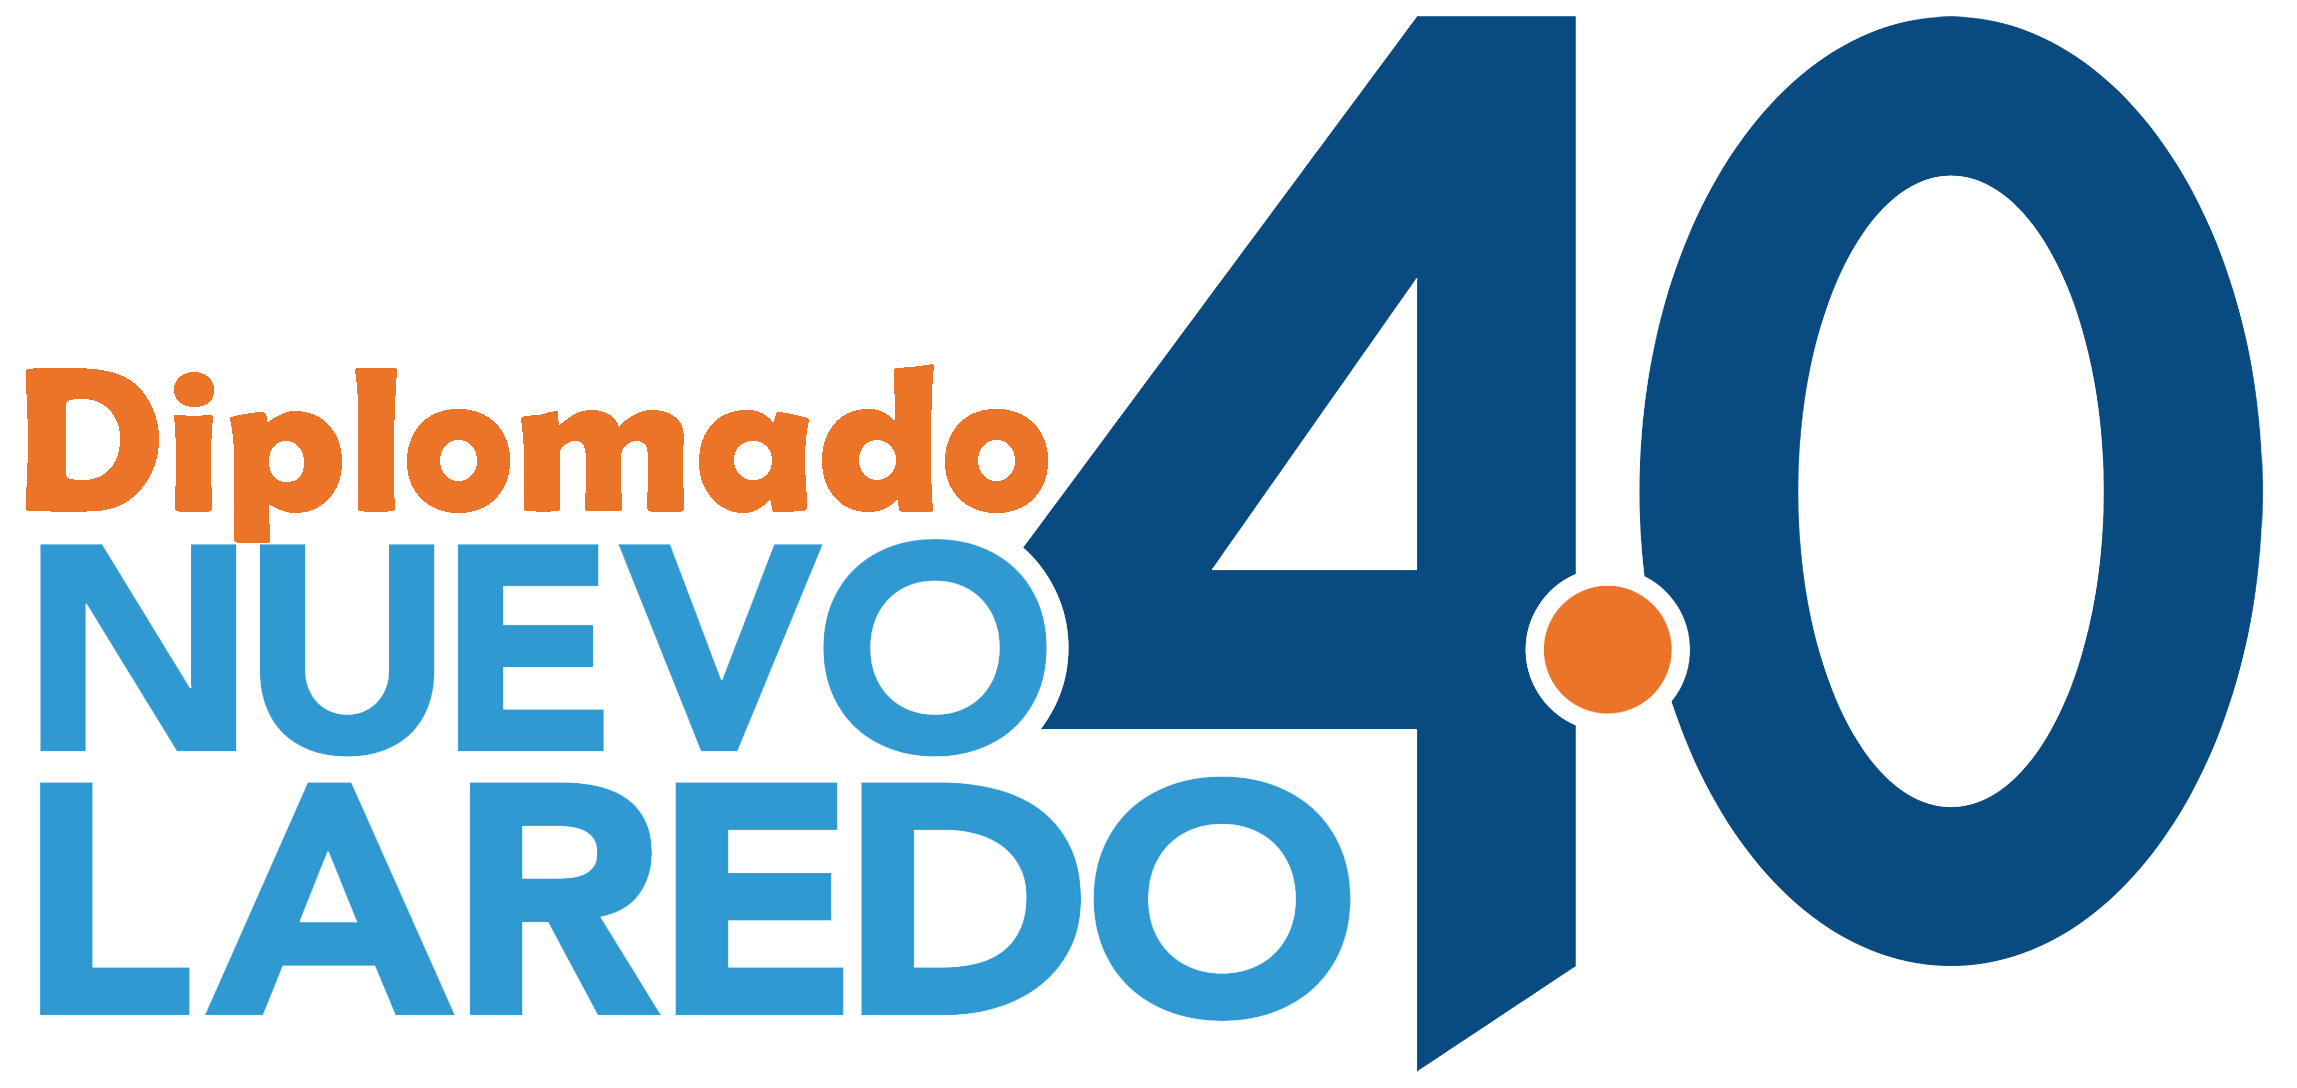
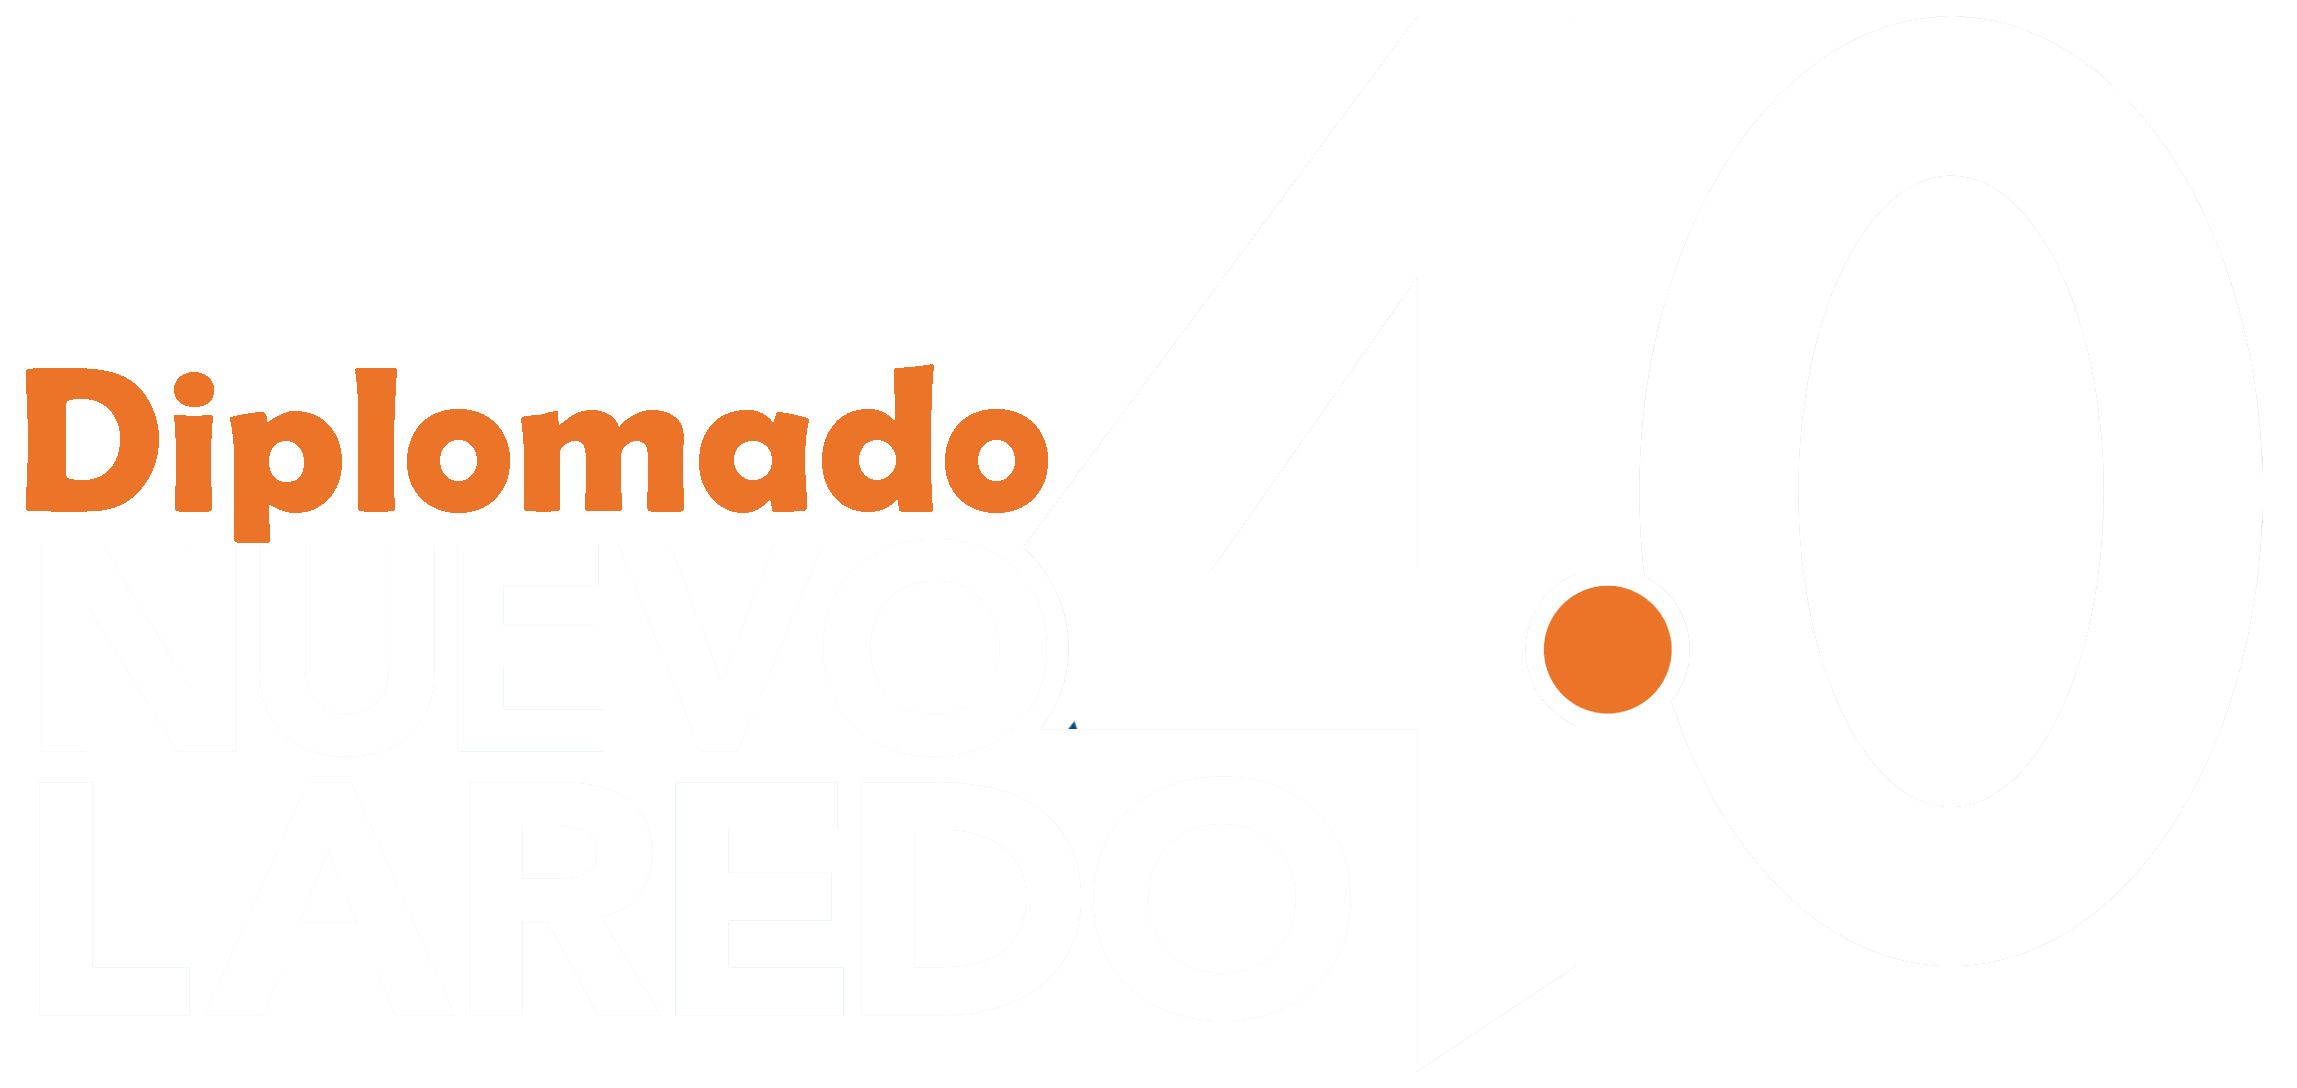
colores

diff --git a/participante_index.html b/participante_index.html
@@ -44,10 +44,10 @@
             <div class="row">
               <div class="col-lg-12">
                 <!--Menu-->
-                  <div class="container-fluid bg-info text-right" >
-                    <nav class="navbar navbar-expand-lg navbar-light bg-info container">
+                  <div class="container-fluid bg-primary text-right" >
+                    <nav class="navbar navbar-expand-lg navbar-light bg-primary container">
                       <a class="navbar-brand" href="#">
-                        <img src="img/Diplomado33 - copia.png" width="160" height="63" class="d-inline-block align-top" alt="">
+                        <img src="img/Diplomado3 - copia.png" width="160" height="63" class="d-inline-block align-top" alt="">
                       </a> 
                       <button class="navbar-toggler" type="button" data-toggle="collapse" data-target="#navbarSupportedContent" aria-controls="navbarSupportedContent" aria-expanded="false" aria-label="Toggle navigation">
                         <span class="navbar-toggler-icon">
@@ -95,13 +95,14 @@
                             </a>
                           </h5>
                         </div>
-                        <div id="collapseOne" class="collapse" role="tabpanel" aria-labelledby="headingOne" data-parent="#accordion">
-                          <div class="card-body bg-info">
-                            <h5>
+                        <div id="collapseOne" class="collapse" role="tabpanel" aria-labelledby="headingOne" data-parent="#accordion" >
+                          <div class="card-body bg-info" style="background:url(img/fondo2.jpg); background-size: cover; background-position: center;">
+                            <h5 style="color:white">
                               Objetivo del curso:
                             </h5>
-                            <p>
+                            <p style="color:white">
                                El módulo de iniciación a industria 4.0 tiene un enfoque de concepto, global y generalista, su objetivo es aportar una visión de referencia sobre las tecnologías y tendencias a nivel mundial que definen las fábricas de mañana, la industria 4.0 y el concepto de internet de las cosas (IoT, internet of things).
+
                             </p>
                             <a href="#">
                               <img src="img/ir.svg" width="30" >
@@ -119,7 +120,7 @@
                           </h5>
                         </div>
                         <div id="collapseTwo" class="collapse" role="tabpanel" aria-labelledby="headingTwo" data-parent="#accordion">
-                          <div class="card-body bg-info">
+                          <div class="card-body bg-info" style="background:url(img/fondo4.png); background-size: cover; background-position: center;">
                             <h5>
                               Objetivo del curso:
                             </h5>
@@ -142,29 +143,29 @@
                           </h5>
                         </div>
                         <div id="collapseThree" class="collapse" role="tabpanel" aria-labelledby="headingThree" data-parent="#accordion">
-                          <div class="card-body bg-info">
-                            <h2>
+                          <div class="card-body bg-info" style="background:url(img/fondo6.jpg); background-size: cover; background-position: center;">
+                            <h2 style="color: white">
                               ¿Qué es la ciberseguridad?
                             </h2>
-                            <ul>
+                            <ul style="color: white">
                               <li>Comunicacíon</li>
                               <li>Manejo</li>
                               <li>Almacenamiento</li>
                               <li>y uso de datos</li>
                             </ul>
-                            <h6>
+                            <h6 style="color: white">
                               De forma segura, confidencial y protegida.
                             </h6> 
-                            <h5>
+                            <h5 style="color: white">
                               Objetivo del curso:
                             </h5>
-                            <p>
+                            <p style="color: white">
                               Es transferir conocimientos de las normativas y estándares, generalidades sobre la ciberseguridad en la industria, hasta hacking ético.
                             </p>
-                            <h5>
+                            <h5 style="color: white">
                               Competencias que se esperan adquirir:
                             </h5>
-                            <ul>
+                            <ul style="color: white">
                               <li>Concienciación y dominio conceptual de lo que abarca un sistema de ciberseguridad</li>
                               <li>Conocimiento de las técnicas y metodologías de identificación y recolección de evidencia digital</li>
                               <li>Experiencia práctica en el manejo de las herramientas que ofrece la ciberseguridad</li>
@@ -185,7 +186,7 @@
                         </h5>
                       </div>
                       <div id="collapseFour" class="collapse" role="tabpanel" aria-labelledby="headingFour" data-parent="#accordion">
-                        <div class="card-body bg-info">
+                        <div class="card-body bg-info" style="background:url(img/fondo5.jpg); background-size: cover; background-position: center;">
                           <h4>
                             ¿Cómo optimizar los sistemas y servicios provistos en mi empresa...en tiempo real,y que prediga patrones o comportamientos?
                           </h4>
@@ -218,14 +219,14 @@
                     <div class="card">
                       <div class="card-header bg-white" role="tab" id="headingFive">
                         <h5 class="mb-0">
-                          <a class="collapsed" data-toggle="collapse" href="#collapseFive" aria-expanded="false" aria-controls="collapseFive">
+                          <a class="collapsed text-primary" data-toggle="collapse" href="#collapseFive" aria-expanded="false" aria-controls="collapseFive">
                              Visión Artificial Inteligente 
                              <img src="img/eye.svg" width="40" id="imgse">
                           </a>
                         </h5>
                       </div>
                       <div id="collapseFive" class="collapse" role="tabpanel" aria-labelledby="headingFive" data-parent="#accordion">
-                        <div class="card-body bg-info">
+                        <div class="card-body bg-info" style="background:url(img/fondo8.jpg); background-size: cover; background-position: center;">
                           <h5>
                           Objetivo del curso:
                           </h5>
@@ -255,17 +256,17 @@
                         </h5>
                       </div>
                       <div id="collapseSix" class="collapse" role="tabpanel" aria-labelledby="headingSix" data-parent="#accordion">
-                        <div class="card-body bg-info">
-                          <h5>
+                        <div class="card-body bg-info" style="background:url(img/fondo1.jpeg); background-size: cover; background-position: center;">
+                          <h5 style="color:white">
                             Objetivo del curso:
                           </h5>
-                          <p>
+                          <p style="color: white">
                             Transferir conocimientos en la capacitación de recursos técnicos a través del uso de visión artificial inteligente con realidad aumentada.
                           </p>
-                          <h5>  
+                          <h5 style="color: white">  
                             Competencias que se esperan adquirir:
                           </h5>
-                          <ul>
+                          <ul style="color: white">
                               <li>Conocimientos y detalles técnicos de diseño, desarrollo, e implementación de sistemas de realidad aumentada, para identificar necesidades, plantear posibles soluciones, interactuar con proveedores</li>
                           </ul>
                           <a href="#">
@@ -284,9 +285,10 @@
                         </h5>
                       </div>
                       <div id="collapseSeven" class="collapse" role="tabpanel" aria-labelledby="headingSeven" data-parent="#accordion">
-                        <div class="card-body  bg-info">
+                        <div class="card-body  bg-info" style="background:url(img/fondo7.jpg); background-size: cover; background-position: center;">
                           <p>
                              Lograr dar un enfoque industrial a los participantes mediante la utilización de la celda de manufactura y el análisis de las áreas de oportunidad en I4.0.
+
                           </p>
                           <a href="#">
                             <img src="img/ir.svg" width="30" >

diff --git a/index.html b/index.html
@@ -13,10 +13,10 @@
     </head>
     <body>
       <!--Menu-->
-      <div class="container-fluid bg-info fixed-top text-center" >
-        <nav class="navbar navbar-expand-lg navbar-light bg-info container">
+      <div class="container-fluid bg-primary fixed-top text-center" >
+        <nav class="navbar navbar-expand-lg navbar-light bg-primary container">
     	   <a class="navbar-brand" href="index.html">
-    	    <img src="img/Diplomado33 - copia.png" width="160" height="63" class="d-inline-block align-top" alt="">
+    	    <img src="img/Diplomado3 - copia.png" width="160" height="63" class="d-inline-block align-top" alt="">
     	   </a>
     	   <button class="navbar-toggler" type="button" data-toggle="collapse" data-target="#navbarSupportedContent"aria-controls="navbarSupportedContent" aria-expanded="false" aria-label="Toggle navigation">
     	   <span class="navbar-toggler-icon"> 
@@ -45,7 +45,7 @@
         <div class="carousel-inner">
           <div class="carousel-item active">
             <img class="d-block w-100" src="img/curso3.jpg" alt="First slide">
-              <div class="carousel-caption d-none d-md-block slider bg-info " id="mensaje" >
+              <div class="carousel-caption d-none d-md-block slider bg-primary " id="mensaje" >
                 <p>
                   <img src="img/Logo CENTRO IST BLANCO-05[1393].png" width="500" height="100">
                 </p>
@@ -54,7 +54,7 @@
           </div>
           <div class="carousel-item">
             <img class="d-block w-100" src="img/curso4.jpg" alt="Second slide">
-            <div class="carousel-caption d-none d-md-block slider bg-info " id="mensaje">
+            <div class="carousel-caption d-none d-md-block slider bg-primary " id="mensaje">
               <p >
                   <img src="img/Logo CENTRO IST BLANCO-05[1393].png" width="500" height="100">
                 </p>
@@ -62,7 +62,7 @@
           </div>
           <div class="carousel-item">
             <img class="d-block w-100" src="img/curso2.jpg" alt="Third slide">
-            <div class="carousel-caption d-none d-md-block slider bg-info" id="mensaje" >
+            <div class="carousel-caption d-none d-md-block slider bg-primary" id="mensaje" >
               <p >
                   <img src="img/Logo CENTRO IST BLANCO-05[1393].png" width="500" height="100">
                 </p>
@@ -247,12 +247,12 @@
 
     <!-- Copyright -->
     <div class="footer-copyright text-center py-3 bg-light">
-      <img src="img/logo1.png" width="180" id="logo">
-      <img src="img/logo2.png" width="180" id="logo">
+      <img src="img/logo4.png" width="110" id="logo">
+      <img src="img/Logo CENTRO IST BLANCO-05[1393].png" width="180" height="50" id="logo" style="background: lightblue; border-radius: 6px;">
       <img src="img/logo3.png" width="180" id="logo">
-      <img src="img/itnl.gif" width="80" id="logo">
-      <img src="img/logo4.png" width="120" id="logo">
-      <img src="img/logo5.png" width="140">
+      <img src="img/itnl.gif" width="70" id="logo" style="">
+      <img src="img/logo2.png" width="150" id="logo" style="margin-left: ">
+      
     </div>
     <!-- Copyright -->
 

diff --git a/login.html b/login.html
@@ -12,10 +12,10 @@
 		</head>
 		<body>
 			<!--Menu-->
-    		<div class="container-fluid bg-info" >
-    			<nav class="navbar navbar-expand-lg navbar-light bg-info container">
+    		<div class="container-fluid bg-primary" >
+    			<nav class="navbar navbar-expand-lg navbar-light bg-primary container">
 	  				<a class="navbar-brand" href="index.html">
-	  					<img src="img/Diplomado33 - copia.png" width="160" height="63" class="d-inline-block align-top" alt="">
+	  					<img src="img/Diplomado3 - copia.png" width="160" height="63" class="d-inline-block align-top" alt="">
 	  				</a> 
 	  				<!--button class="navbar-toggler" type="button" data-toggle="collapse" data-target="#navbarSupportedContent" aria-controls="navbarSupportedContent" aria-expanded="false" aria-label="Toggle navigation">
 	    				<span class="navbar-toggler-icon">
@@ -38,7 +38,7 @@
 							<div class="form-group" id="contraseña-group">
 								<input type="password" placeholder="Contraseña" name="" class="form-control" id="contraseña">
 							</div>
-							<button type="submit" class="btn btn-info"><i class="fas fa-sign-out-alt"></i> Ingresar 
+							<button type="submit" class="btn btn-primary"><i class="fas fa-sign-out-alt"></i> Ingresar 
 							</button>
 
 						</form>
@@ -123,12 +123,11 @@
     </div>
     <!-- Copyright -->
     <div class="footer-copyright text-center py-3 bg-light">
-    	<img src="img/logo1.png" width="180" id="logo">
-      <img src="img/logo2.png" width="180" id="logo">
+    	<img src="img/logo4.png" width="110" id="logo">
+      <img src="img/Logo CENTRO IST BLANCO-05[1393].png" width="180" height="50" id="logo" style="background: lightblue; border-radius: 6px;">
       <img src="img/logo3.png" width="180" id="logo">
-      <img src="img/itnl.gif" width="80" id="logo">
-      <img src="img/logo4.png" width="120" id="logo">
-      <img src="img/logo5.png" width="140">
+      <img src="img/itnl.gif" width="70" id="logo" style="">
+      <img src="img/logo2.png" width="150" id="logo" style="margin-left: ">
     </div>
     <!-- Copyright -->
 

diff --git a/registrar.html b/registrar.html
@@ -10,10 +10,10 @@
 		</head>
 		<body>
 			<!--Menu-->
-    		<div class="container-fluid bg-info fixed-top text-center" >
-    			<nav class="navbar navbar-expand-lg navbar-light bg-info container">
+    		<div class="container-fluid bg-primary fixed-top text-center" >
+    			<nav class="navbar navbar-expand-lg navbar-light bg-primary container">
 	  				<a class="navbar-brand" href="index.html">
-	  					<img src="img/Diplomado33 - copia.png" width="160" height="63" class="d-inline-block align-top" alt="">
+	  					<img src="img/Diplomado3 - copia.png" width="160" height="63" class="d-inline-block align-top" alt="">
 	  				</a> 
 	  				<button class="navbar-toggler" type="button" data-toggle="collapse" data-target="#navbarSupportedContent" aria-controls="navbarSupportedContent" aria-expanded="false" aria-label="Toggle navigation">
 	    				<span class="navbar-toggler-icon">
@@ -279,12 +279,11 @@
 
 		    <!-- Copyright -->
 		    <div class="footer-copyright text-center py-3 bg-light">
-		    	<img src="img/logo1.png" width="180" id="logo">
-			      <img src="img/logo2.png" width="180" id="logo">
-			      <img src="img/logo3.png" width="180" id="logo">
-			      <img src="img/itnl.gif" width="80" id="logo">
-			      <img src="img/logo4.png" width="120" id="logo">
-			      <img src="img/logo5.png" width="140">
+		    	<img src="img/logo4.png" width="110" id="logo">
+			    <img src="img/Logo CENTRO IST BLANCO-05[1393].png" width="180" height="50" id="logo" style="background: lightblue; border-radius: 6px;">
+			    <img src="img/logo3.png" width="180" id="logo">
+			    <img src="img/itnl.gif" width="70" id="logo" style="">
+			    <img src="img/logo2.png" width="150" id="logo" style="margin-left: ">
 		    </div>
 		    <!-- Copyright -->
 

diff --git a/modulos.html b/modulos.html
@@ -40,10 +40,10 @@
               <div class="row">
                 <div class="col-lg-12">
                   <!--Menu-->
-                    <div class="container-fluid bg-info text-right" >
-                      <nav class="navbar navbar-expand-lg navbar-light bg-info container">
+                    <div class="container-fluid bg-primary text-right" >
+                      <nav class="navbar navbar-expand-lg navbar-light bg-primary container">
                         <a class="navbar-brand" href="participante_index.html">
-                            <img src="img/Diplomado33 - copia.png" width="160" height="63" class="d-inline-block align-top" alt="">
+                            <img src="img/Diplomado3 - copia.png" width="160" height="63" class="d-inline-block align-top" alt="">
                         </a> 
                         <button class="navbar-toggler" type="button" data-toggle="collapse" data-target="#navbarSupportedContent" aria-controls="navbarSupportedContent" aria-expanded="false" aria-label="Toggle navigation">
                           <span class="navbar-toggler-icon"></span>

diff --git a/editar_perfil.html b/editar_perfil.html
@@ -10,10 +10,10 @@
   </head>
   <body>
     <!--Menu-->
-    <div class="container-fluid bg-info" >
-      <nav class="navbar navbar-expand-lg navbar-light bg-info container">
+    <div class="container-fluid bg-primary" >
+      <nav class="navbar navbar-expand-lg navbar-light bg-primary container">
           <a class="navbar-brand" href="participante_index.html">
-            <img src="img/Diplomado33 - copia.png" width="160" height="63" class="d-inline-block align-top" alt="">
+            <img src="img/Diplomado3 - copia.png" width="160" height="63" class="d-inline-block align-top" alt="">
           </a> 
           <button class="navbar-toggler" type="button" data-toggle="collapse" data-target="#navbarSupportedContent" aria-controls="navbarSupportedContent" aria-expanded="false" aria-label="Toggle navigation">
             <span class="navbar-toggler-icon"></span>

diff --git a/css/index.css b/css/index.css
@@ -15,6 +15,7 @@
 	border-radius: 20px;
 	opacity: 0.9;
 	/*background: #F7F8F8	;*/
+	margin:0 auto;
 }
 #mensaje h5{
 	color:black;
